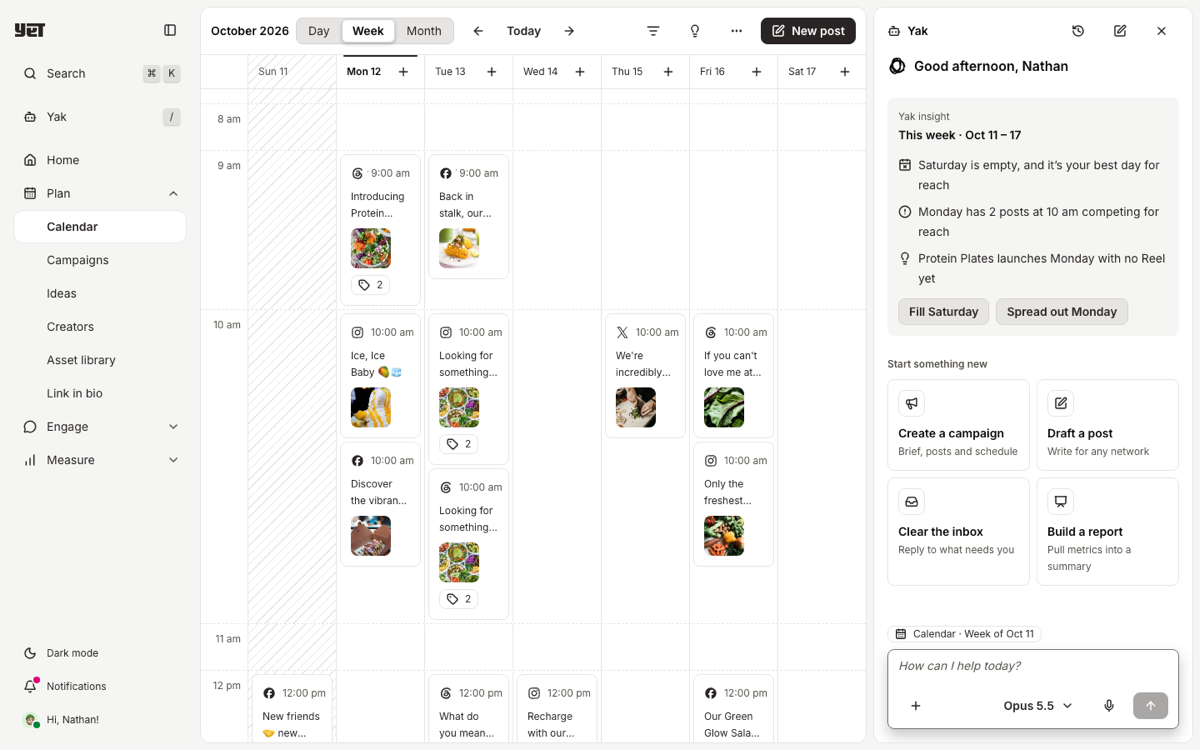
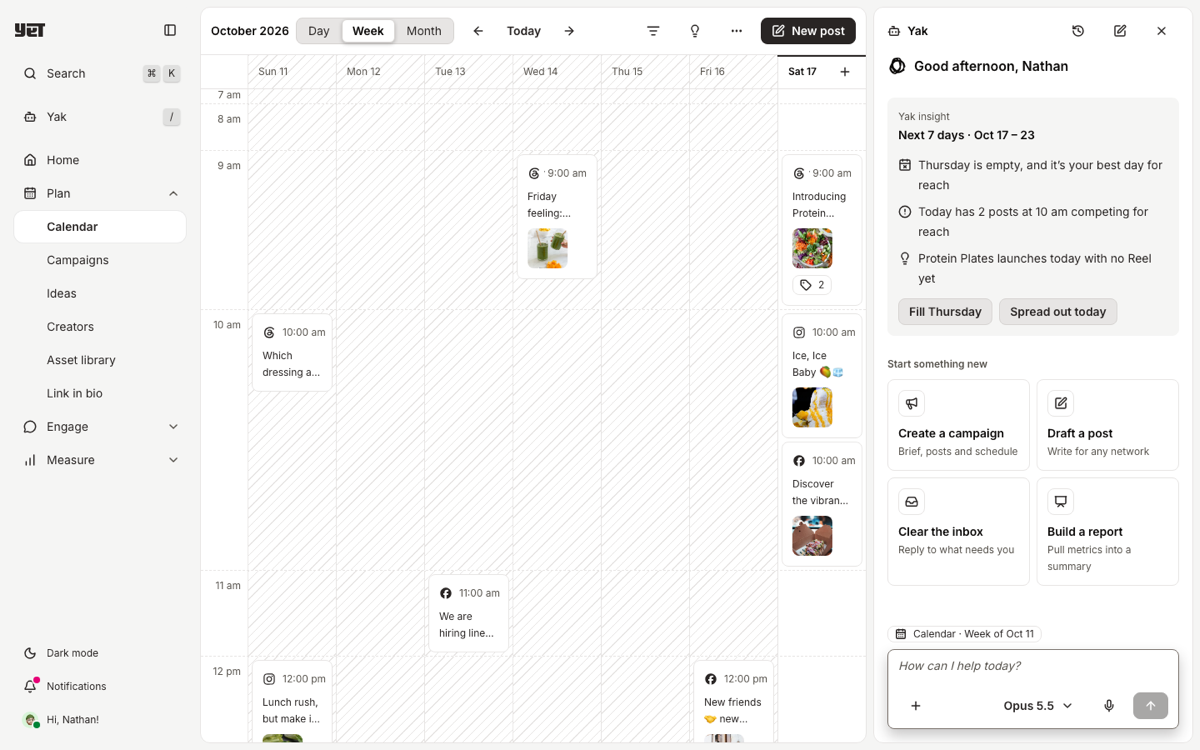
Calendar: full-width today highlight, sticky hour labels, schedule slides to today
- Today's highlight fills the column edge to edge with square ends, as Figma
  now draws it (40005911:32818), in the week, day and month.
- Hour labels stick under the day header while a tall row scrolls past and
  are pushed out by the row's own bottom.
- Day view posts are centered in the column at 736px at most.
- The calendar uses the real date, and the whole schedule slides so Figma's
  Monday "today" lands on it: today always has posts, the days ahead are
  scheduled into next week, and the days behind hold what was published.
  Yak's insights now look over the next seven days and say "today" when it is.

diff --git a/apps/social/yak/insights.ts b/apps/social/yak/insights.ts
@@ -1,7 +1,8 @@
 import { CircleAlert, Lightbulb, CalendarX, type LucideIcon } from 'lucide-react'
 
-import { formatTime } from '../data/dates'
-import { postsOn, today, weekDays } from '../screens/calendar/model'
+import { addDays, formatTime, sameDay, startOfWeek } from '../data/dates'
+import { posts } from '../data/posts'
+import { postDate, postsOn, today } from '../screens/calendar/model'
 
 export interface Insight {
   icon: LucideIcon
@@ -10,21 +11,37 @@ export interface Insight {
   action?: string
 }
 
+const fullWeekday = new Intl.DateTimeFormat('en-US', { weekday: 'long' })
+const monthShort = new Intl.DateTimeFormat('en-US', { month: 'short' })
+
+/** `Thursday`, or `today` when it is. */
+function dayName(day: Date): string {
+  return sameDay(day, today) ? 'today' : fullWeekday.format(day)
+}
+
+const capitalize = (text: string) => text.charAt(0).toUpperCase() + text.slice(1)
+
+/** Today and the six days after it — what Yak looks ahead over. */
+function nextSevenDays(): Date[] {
+  return Array.from({ length: 7 }, (_, i) => addDays(today, i))
+}
+
 /**
- * `_Yak Insight` rows (`40005851:17822`), worked out from this week's posts
- * rather than typed in, so they stay true whatever week the mock opens on.
- * The file's three: an empty day, a crowded slot, and a launch with a gap.
+ * `_Yak Insight` rows (`40005851:17822`), worked out from the posts in the
+ * next seven days rather than typed in, so they stay true whatever day the
+ * mock opens on. The file's three: an empty day, a crowded slot, and a launch
+ * with a gap.
  */
 export function weekInsights(): Insight[] {
-  const days = weekDays(today)
+  const days = nextSevenDays()
   const insights: Insight[] = []
 
-  const empty = days.find((day) => day >= today && postsOn(day).length === 0)
+  const empty = days.find((day) => postsOn(day).length === 0)
   if (empty) {
-    const name = fullWeekday.format(empty)
+    const name = dayName(empty)
     insights.push({
       icon: CalendarX,
-      text: `${name} is empty, and it’s your best day for reach`,
+      text: `${capitalize(name)} is empty, and it’s your best day for reach`,
       action: `Fill ${name}`,
     })
   }
@@ -38,24 +55,35 @@ export function weekInsights(): Insight[] {
     }
   }
   if (crowded) {
-    const name = fullWeekday.format(crowded.day)
+    const name = dayName(crowded.day)
     insights.push({
       icon: CircleAlert,
-      text: `${name} has ${crowded.count} posts at ${formatTime(crowded.time).replace(':00', '')} competing for reach`,
+      text: `${capitalize(name)} has ${crowded.count} posts at ${formatTime(crowded.time).replace(':00', '')} competing for reach`,
       action: `Spread out ${name}`,
     })
   }
 
-  insights.push({ icon: Lightbulb, text: 'Protein Plates launches Monday with no Reel yet' })
+  const launch = posts.find((post) => post.id === 'p-12')
+  if (launch) {
+    insights.push({
+      icon: Lightbulb,
+      text: `Protein Plates launches ${dayName(postDate(launch))} with no Reel yet`,
+    })
+  }
   return insights
 }
 
-const fullWeekday = new Intl.DateTimeFormat('en-US', { weekday: 'long' })
-
-/** `Jul 6 – 12`, the insight card's range. */
+/** `Oct 17 – 23`, the range the insights cover. */
 export function weekRange(): string {
-  const [first, , , , , , last] = weekDays(today)
-  const month = new Intl.DateTimeFormat('en-US', { month: 'short' })
-  const sameMonth = first!.getMonth() === last!.getMonth()
-  return `${month.format(first)} ${first!.getDate()} – ${sameMonth ? '' : `${month.format(last)} `}${last!.getDate()}`
+  const days = nextSevenDays()
+  const first = days[0]!
+  const last = days[6]!
+  const sameMonth = first.getMonth() === last.getMonth()
+  return `${monthShort.format(first)} ${first.getDate()} – ${sameMonth ? '' : `${monthShort.format(last)} `}${last.getDate()}`
+}
+
+/** `Oct 11`, the Sunday the calendar's current week starts on. */
+export function weekStartLabel(): string {
+  const start = startOfWeek(today)
+  return `${monthShort.format(start)} ${start.getDate()}`
 }

diff --git a/apps/social/screens/calendar/model.ts b/apps/social/screens/calendar/model.ts
@@ -1,37 +1,34 @@
-import { addDays, sameDay, startOfDay, startOfWeek, weeksBetween } from '../../data/dates'
+import { addDays, sameDay, startOfDay, startOfWeek } from '../../data/dates'
 import { posts } from '../../data/posts'
 import type { Post } from '../../data/types'
 
 export type CalendarView = 'day' | 'week' | 'month'
 
+/** Today — the real date, read once per load. */
+export const today = startOfDay(new Date())
+
 /**
- * The mock's today: **the Monday of the real current week**, read once per load.
- *
- * Figma draws the calendar from a Monday — Sunday hatched as past, the rest of
- * the week ahead, Saturday empty — and the posts and Yak's insights are written
- * around that. Using the real date would make the same data read differently
- * every day: opened on a Saturday, six of seven days are history and "Saturday
- * is empty" is about today. So the weekday is pinned and the dates are real
- * (the month and year are always the current ones), and the now line still
- * follows the real clock.
+ * Where a post lands: **the whole schedule slides so that Figma's today lands
+ * on the real today.** The data is written as Figma draws it — weeks and
+ * weekdays around a Monday that is "today" (`40005911:33082`) — so a post's
+ * date is its offset from that Monday, counted from the real date. Whatever
+ * day the mock is opened, today has posts, the days after it are scheduled
+ * (spilling into next week as the week runs out), and the days before it hold
+ * what was published.
  */
-export const today = addDays(startOfWeek(startOfDay(new Date())), 1)
+export function postDate(post: Post): Date {
+  return addDays(today, post.week * 7 + post.day - 1)
+}
 
 /** The posts on one calendar day, earliest first. */
 export function postsOn(date: Date): Post[] {
-  const week = weeksBetween(today, date)
   return posts
-    .filter((post) => post.week === week && post.day === date.getDay())
+    .filter((post) => sameDay(postDate(post), date))
     .sort((a, b) => a.time.localeCompare(b.time))
 }
 
 export function postHour(post: Post): number {
   return Number(post.time.slice(0, 2))
-}
-
-/** The date a post sits on, for the detail panel's header. */
-export function postDate(post: Post): Date {
-  return addDays(startOfWeek(today), post.week * 7 + post.day)
 }
 
 export function isPast(date: Date): boolean {

diff --git a/apps/social/screens/calendar/HourGrid.tsx b/apps/social/screens/calendar/HourGrid.tsx
@@ -53,10 +53,11 @@ export function HourGrid({ days, renderPost, onAddPost, dayLabel = weekLabel }: 
               )}
             >
               {isToday ? (
-                // Figma's `Highlight`: a 2px rule across the top of today.
+                // Figma's `Highlight` (`40005911:32818`): a 2px rule in Surface/Border
+                // Emphasized across the full top edge of today's column, square ends.
                 <span
                   aria-hidden
-                  className="absolute inset-x-2 top-0 h-0.5 rounded-full bg-surface-border-emphasized"
+                  className="absolute top-0 right-0 -left-px h-0.5 bg-surface-border-emphasized"
                 />
               ) : null}
               <Text
@@ -117,8 +118,17 @@ function Row({
 }) {
   return (
     <div className="relative flex min-h-14 border-b border-dashed border-surface-border last:border-b-0">
-      <div className={cn(GUTTER, 'flex justify-end pt-2 pr-2')}>
-        <Text render={<span />} size="sm" color="subtle" className="whitespace-nowrap">
+      {/* The label sticks under the 40px day header while its row scrolls by,
+          and the row's own bottom pushes it out — the row is its containing
+          block. `items-start` keeps the span its own height; stretched, it
+          would have nowhere to stick. */}
+      <div className={cn(GUTTER, 'flex items-start justify-end pr-2')}>
+        <Text
+          render={<span />}
+          size="sm"
+          color="subtle"
+          className="sticky top-12 mt-2 whitespace-nowrap"
+        >
           {label}
         </Text>
       </div>

diff --git a/apps/social/yak/YakPanel.tsx b/apps/social/yak/YakPanel.tsx
@@ -15,7 +15,7 @@ import { Token } from '../../../src/components/Token'
 import { me } from '../data/people'
 import { history, startActions } from '../data/yak'
 import { useShell } from '../shell/ShellContext'
-import { weekInsights, weekRange } from './insights'
+import { weekInsights, weekRange, weekStartLabel } from './insights'
 
 interface Turn {
   id: number
@@ -60,7 +60,7 @@ export function YakPanel({
 
   const thinking = turns.some((t) => t.state === 'thinking')
   const context = location.pathname.startsWith('/plan/calendar')
-    ? `Calendar · Week of ${weekRange().split(' –')[0]}`
+    ? `Calendar · Week of ${weekStartLabel()}`
     : 'This page'
 
   return (
@@ -178,7 +178,7 @@ function StartScreen({ onAsk }: { onAsk: (prompt: string) => void }) {
             Yak insight
           </Text>
           <Heading level={3} size="base" weight="semibold">
-            This week · {weekRange()}
+            Next 7 days · {weekRange()}
           </Heading>
         </div>
         <ul className="flex flex-col gap-2">

diff --git a/apps/social/screens/calendar/DayView.tsx b/apps/social/screens/calendar/DayView.tsx
@@ -13,7 +13,7 @@ interface DayViewProps {
 /**
  * One day. Figma has the agenda card for it (`_Calendar Agenda Content`,
  * "a post in the Post Calendar day agenda") but no day screen, so this is the
- * week's grid with one column and the wider card, capped at a readable width.
+ * week's grid with one column and the wider card, centered in the column at 736px at most.
  */
 export function DayView({ anchor, selectedPostId, onOpenPost, onAddPost }: DayViewProps) {
   return (
@@ -22,7 +22,7 @@ export function DayView({ anchor, selectedPostId, onOpenPost, onAddPost }: DayVi
       dayLabel={(date) => fullDate.format(date)}
       onAddPost={onAddPost}
       renderPost={(post) => (
-        <div key={post.id} className="w-full max-w-xl">
+        <div key={post.id} className="mx-auto w-full max-w-184">
           <CalendarAgendaCard
             post={post}
             selected={post.id === selectedPostId}

diff --git a/apps/social/data/posts.ts b/apps/social/data/posts.ts
@@ -33,9 +33,9 @@ export function profileFor(post: Post): Profile {
 }
 
 /**
- * The posts. Placed by week and weekday rather than by date, so the calendar is
- * always populated around today: week 0 is whatever week it is when the page
- * loads. Week 0 is the Figma week (`40005911:33082`) post for post.
+ * The posts, written as the Figma week draws them (`40005911:33082`), post for
+ * post: by week and weekday around a Monday that is "today". `postDate` in
+ * `screens/calendar/model.ts` slides them so that Monday is the real today.
  */
 export const posts: Post[] = [
   // Last week

diff --git a/apps/social/data/types.ts b/apps/social/data/types.ts
@@ -25,9 +25,9 @@ export interface PostComment {
 export interface Post {
   id: string
   profileId: string
-  /** Weeks from the current one: 0 is this week, -1 last week. */
+  /** Weeks from the Figma week: 0 is that week, -1 the one before. */
   week: number
-  /** 0 is Sunday — the calendar's weeks start on Sunday, as Figma draws them. */
+  /** 0 is Sunday and 1 is Monday, Figma's "today" — see `postDate`. */
   day: number
   /** 24-hour `HH:MM`. */
   time: string

diff --git a/apps/social/screens/calendar/MonthView.tsx b/apps/social/screens/calendar/MonthView.tsx
@@ -65,7 +65,7 @@ export function MonthView({ anchor, selectedPostId, onOpenPost }: MonthViewProps
             {isToday ? (
               <span
                 aria-hidden
-                className="absolute inset-x-2 top-0 h-0.5 rounded-full bg-surface-border-emphasized"
+                className="absolute top-0 right-0 -left-px h-0.5 bg-surface-border-emphasized"
               />
             ) : null}
             <Text

diff --git a/apps/social/FINDINGS.md b/apps/social/FINDINGS.md
@@ -65,16 +65,23 @@ Library fixes land as their own small PRs to `src/`, never mixed into an app PR.
 12. **No day view and no phone calendar.** The day view is the week grid with one column and
     the `_Calendar Agenda Content` card the file already has. On a phone the week keeps 112px
     columns and scrolls sideways. Both were decided here, not designed.
-13. **"Today" is pinned to Monday.** The posts and Yak's insights are written for Figma's
-    Monday. The app keeps the real dates and treats the Monday of the current week as today
-    (`screens/calendar/model.ts`). That is a mock-data decision, recorded here so it does not
-    read as a bug.
+13. **The schedule slides to today.** The posts and Yak's insights are written around Figma's
+    Monday "today". The app uses the real date and shifts the whole schedule so that Monday
+    lands on it (`postDate` in `screens/calendar/model.ts`). Whatever day the mock opens on,
+    today has posts, the next days are scheduled into next week, and the days behind hold
+    what was published. That is a mock-data decision, recorded here so it does not read as a
+    bug.
 
 ### Measured, and fine
 
 - Week card against `_Calendar Post Content`: 12px padding, `rounded-md` 8, 1px border, 48×48
   thumbnail at `rounded-md`, copy clamped at two lines of 12/20.
 - Now line: 7.3px into a 56px row at 4:08, which is 8/60 of the row.
+- Today's highlight: 2px in Surface/Border Emphasized, square ends, the full column width
+  including its left border (Figma `40005911:32818`, updated 2026-10-17).
+- Hour labels stick 8px under the day header while a tall row scrolls past (a 293px 10 am row
+  measured), and are pushed out by the row's own bottom.
+- Day view cards: 736px at most, centered in the column.
 - Panel 384 wide; History stacks over Yak at 384 with Yak's root 396 (the 12px peek).
 - Phone (375 × 812): rail hidden, `MobileNav` shown, panel under the page at 320 tall, document
   not scrolling, grid scrolling sideways inside `<main>`.

diff --git a/apps/CLAUDE.md b/apps/CLAUDE.md
@@ -38,8 +38,9 @@ Deployed with Storybook: the Pages workflow builds the apps with
   every state worth showing should have a link — put view state in the URL.
 - **Every nav item goes somewhere.** A screen drawn in Figma and not built says so and links the
   frame; an area with no design says that instead (`screens/NotBuilt.tsx`).
-- **Mock data is typed, and relative to today.** Yet Social pins "today" to the Monday of the real
-  week because its data and Figma are written from a Monday — see `screens/calendar/model.ts`.
+- **Mock data is typed, and relative to today.** Yet Social's data is written around Figma's
+  Monday "today", and `postDate` slides the whole schedule so that Monday lands on the real
+  date, so there is always something scheduled ahead (`screens/calendar/model.ts`).
 - The library's rules hold here too: semantic tokens only, `focusRing` for focus, default sizes
   first, runtime values in custom properties read by utilities.
 
